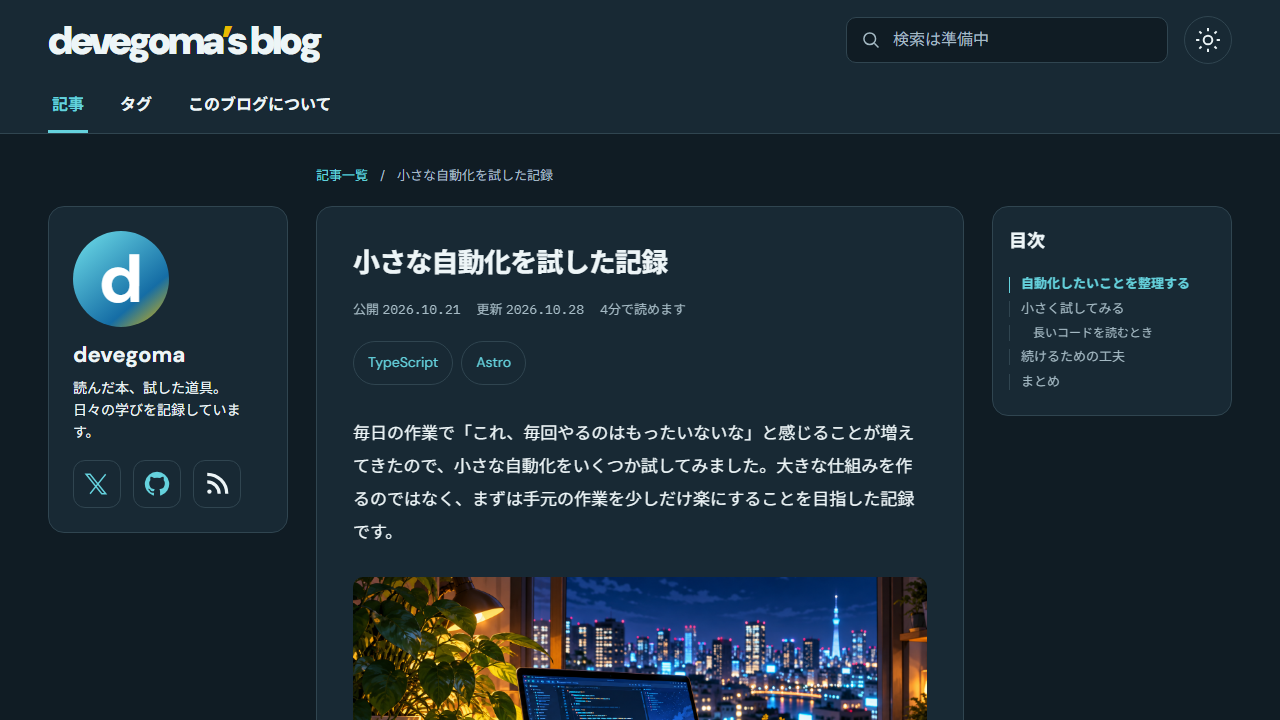
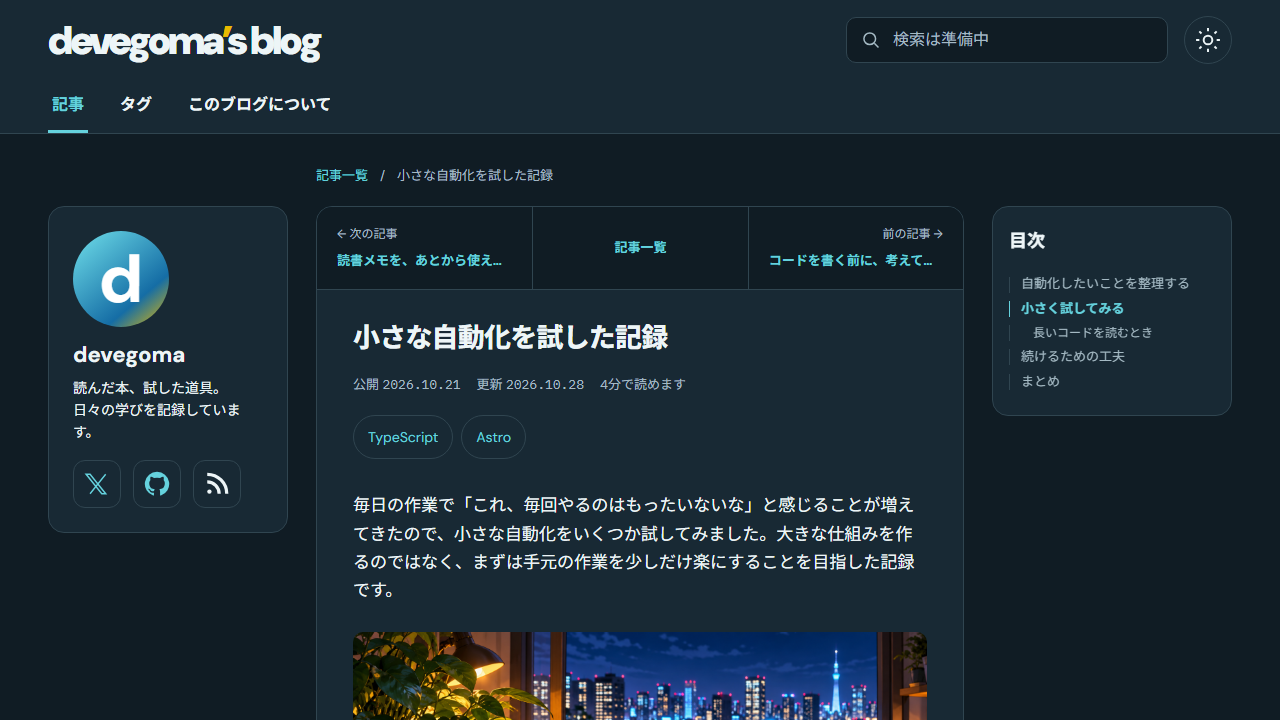
fix: refine article navigation and short-post table of contents

diff --git a/tests/article.spec.ts b/tests/article.spec.ts
@@ -1,5 +1,143 @@
 import { expect, test } from "@playwright/test";
 
+test("短い記事でもクリックした途中の目次を維持し、スクロールすると選択を更新する", async ({
+    page,
+    viewport,
+}) => {
+    await page.goto("/posts/before-coding/");
+    await page.evaluate(() => document.fonts.ready);
+    const mobile = viewport!.width <= 1199;
+    if (mobile) await page.locator(".mobile-toc summary").click();
+    const toc = page.locator(mobile ? ".mobile-toc .toc" : ".article-toc .toc");
+    const links = toc.locator("a");
+    const seenWhileScrolling = await page.evaluate(async () => {
+        const seen = new Set<string>();
+        const max = document.documentElement.scrollHeight - innerHeight;
+        for (let step = 0; step <= 30; step++) {
+            window.scrollTo(0, (max * step) / 30);
+            await new Promise(requestAnimationFrame);
+            await new Promise(requestAnimationFrame);
+            seen.add(
+                document
+                    .querySelector(".article-toc a[aria-current]")
+                    ?.textContent?.trim() ?? "",
+            );
+        }
+        return [...seen];
+    });
+    expect(seenWhileScrolling).toEqual(
+        expect.arrayContaining([
+            "目的を言葉にする",
+            "小さく試す",
+            "振り返りを残す",
+        ]),
+    );
+    await page.evaluate(() => window.scrollTo(0, 0));
+    await links.nth(1).click();
+    await expect(links.nth(1)).toHaveAttribute("aria-current", "location");
+    await links.last().click();
+    await expect(links.last()).toHaveAttribute("aria-current", "location");
+    await links.nth(1).click();
+    await links.nth(1).click();
+    await expect(links.nth(1)).toHaveAttribute("aria-current", "location");
+    await page.reload();
+    const desktopLinks = page.locator(".article-toc .toc a");
+    await expect(desktopLinks.nth(1)).toHaveAttribute(
+        "aria-current",
+        "location",
+    );
+    await page.goBack();
+    await expect(desktopLinks.last()).toHaveAttribute(
+        "aria-current",
+        "location",
+    );
+    await page.goForward();
+    await expect(desktopLinks.nth(1)).toHaveAttribute(
+        "aria-current",
+        "location",
+    );
+    await page.evaluate(() => window.scrollTo(0, 0));
+    await expect(desktopLinks.first()).toHaveAttribute(
+        "aria-current",
+        "location",
+    );
+    await page.evaluate(() =>
+        window.scrollTo(0, document.documentElement.scrollHeight),
+    );
+    await expect(desktopLinks.last()).toHaveAttribute(
+        "aria-current",
+        "location",
+    );
+
+    await page.setViewportSize({ ...page.viewportSize()!, height: 2000 });
+    await page.goto("/posts/before-coding/");
+    if (mobile) await page.locator(".mobile-toc summary").click();
+    await links.nth(1).click();
+    await expect(links.nth(1)).toHaveAttribute("aria-current", "location");
+    expect(await page.evaluate(() => window.scrollY)).toBe(0);
+});
+
+test("記事上部の前後ナビで移動でき、先頭・末尾に存在しない記事のリンクを出さない", async ({
+    page,
+    viewport,
+}) => {
+    await page.goto("/posts/automation/");
+    const navigation = page.getByRole("navigation", { name: "前後の記事" });
+    await expect(navigation.locator('[rel="prev"]')).toHaveAttribute(
+        "href",
+        "/posts/before-coding/",
+    );
+    await expect(navigation.locator('[rel="next"]')).toHaveAttribute(
+        "href",
+        "/posts/sample/",
+    );
+    await expect(
+        page.locator(".article-paper > .article-pagination"),
+    ).toBeVisible();
+    await expect(navigation.locator(":scope > *")).toHaveClass([
+        "article-next",
+        "article-index",
+        "article-previous",
+    ]);
+    const mobile = viewport!.width <= 1199;
+    const indexTab = navigation.getByRole("link", {
+        name: "記事一覧",
+        exact: true,
+    });
+    if (mobile) await expect(indexTab).toBeHidden();
+    else await expect(indexTab).toBeVisible();
+    const nextBox = (await navigation.locator(".article-next").boundingBox())!;
+    const previousBox = (await navigation
+        .locator(".article-previous")
+        .boundingBox())!;
+    expect(nextBox.width).toBeCloseTo(previousBox.width, 0);
+    if (!mobile)
+        expect((await indexTab.boundingBox())!.width).toBeCloseTo(
+            nextBox.width,
+            0,
+        );
+    await navigation.locator('[rel="prev"]').click();
+    await expect(page).toHaveURL("/posts/before-coding/");
+    await expect(navigation.locator('[rel="prev"]')).toHaveCount(0);
+    await expect(navigation.getByText("最後の記事です")).toBeVisible();
+    await navigation.locator('[rel="next"]').click();
+    await navigation.locator('[rel="next"]').click();
+    await expect(page).toHaveURL("/posts/sample/");
+    await expect(navigation.locator('[rel="next"]')).toHaveCount(0);
+    await expect(navigation.getByText("最新の記事です")).toBeVisible();
+    await expect(navigation.locator('[rel="prev"]')).toHaveAttribute(
+        "href",
+        "/posts/automation/",
+    );
+    if (mobile)
+        await page.getByRole("link", { name: "← 記事一覧に戻る" }).click();
+    else await indexTab.click();
+    await expect(page).toHaveURL("/");
+    await expect(
+        page.getByRole("heading", { name: "最近の記録" }),
+    ).toBeVisible();
+});
+
 test("最下部まで読むと最後の目次が選択され、上へ戻ると選択も戻る", async ({
     page,
 }) => {

diff --git a/src/styles/article.css b/src/styles/article.css
@@ -42,7 +42,62 @@
     min-width: 0;
 }
 .article-paper {
-    padding: 36px;
+    --article-padding: 36px;
+    padding: var(--article-padding);
+}
+.article-pagination {
+    display: grid;
+    grid-template-columns: repeat(3, minmax(0, 1fr));
+    margin: calc(-1 * var(--article-padding)) calc(-1 * var(--article-padding))
+        28px;
+    border-bottom: 1px solid var(--line);
+    border-radius: 15px 15px 0 0;
+    background: var(--page);
+    overflow: hidden;
+}
+.article-pagination > * {
+    display: flex;
+    flex-direction: column;
+    justify-content: center;
+    gap: 6px;
+    min-width: 0;
+    padding: 18px 20px;
+    font-size: 13px;
+    overflow-wrap: anywhere;
+}
+.article-pagination > * + * {
+    border-left: 1px solid var(--line);
+}
+.article-pagination .article-previous {
+    text-align: right;
+}
+.article-pagination .article-index {
+    align-items: center;
+    min-width: 92px;
+    padding-inline: 16px;
+    font-weight: 700;
+    white-space: nowrap;
+}
+.article-pagination a:hover {
+    background: color-mix(in srgb, var(--accent) 7%, var(--panel));
+    text-decoration: none;
+}
+.article-pagination a:focus-visible {
+    outline-offset: -4px;
+}
+.article-pagination-label {
+    color: var(--muted);
+    font-size: 12px;
+}
+.article-pagination-title {
+    font-weight: 700;
+    display: block;
+    white-space: nowrap;
+    text-overflow: ellipsis;
+    overflow: hidden;
+}
+.article-pagination-empty {
+    color: var(--muted);
 }
 .article-heading h1 {
     font-size: clamp(26px, 2.1vw, 34px);
@@ -128,7 +183,7 @@
 }
 .article-body {
     font-size: 17px;
-    line-height: 1.95;
+    line-height: 1.65;
     overflow-wrap: anywhere;
 }
 .article-body > :first-child {
@@ -389,7 +444,20 @@
         display: none;
     }
     .article-paper {
-        padding: 24px 20px;
+        --article-padding: 20px;
+        padding-block: 24px;
+    }
+    .article-pagination {
+        grid-template-columns: repeat(2, minmax(0, 1fr));
+        margin-top: -24px;
+        margin-bottom: 24px;
+    }
+    .article-pagination > * {
+        padding: 14px 12px;
+        font-size: 12px;
+    }
+    .article-pagination .article-index {
+        display: none;
     }
     .article-heading h1 {
         font-size: 26px;
@@ -462,6 +530,10 @@
         max-width: 800px;
     }
     .article-paper {
-        padding: 36px;
+        --article-padding: 36px;
+        padding-block: 36px;
+    }
+    .article-pagination {
+        margin-top: -36px;
     }
 }

diff --git a/output/issue-9-article-implementation/README.md b/output/issue-9-article-implementation/README.md
@@ -47,7 +47,7 @@
 
 1280×720pxの `/posts/automation/` で再現した。ページ最下部でも最後の「まとめ」は画面上端から約335pxの位置にあり、見出しの切り替え基準160pxに届かず、一つ前の目次が選択されたままだった。余白を一時的に400px追加すると最後の目次が選択され、余白を戻すと再発することから、見出しとリンクの不一致やスクロールイベントの欠落ではなく、スクロール可能な距離の不足と確認した。
 
-スクロールできるページの最下部では最後の見出しを選択する。上へ戻れば従来の見出し位置の判定に戻る。端数のスクロール位置は1pxの差を許容し、画面内に収まる短いページでは先頭の項目を維持する。画面サイズ変更時も再判定する。
+スクロールできるページの最下部では最後の見出しを選択する。上へ戻れば従来の見出し位置の判定に戻る。端数のスクロール位置は1pxの差を許容し、画面内に収まる短いページの初期表示（見出し指定なし）では先頭の項目を維持する。画面サイズ変更時も再判定する。
 
 回帰テストは、修正前に「まとめ」の `aria-current` が付かず失敗することを確認してから追加した。最下部・上端への往復、短い末尾、スクロール不要なページ、PC・モバイルの両目次を検証する。
 
@@ -64,3 +64,21 @@
 PR対象の整形確認は成功した。作業コピー全体の `pnpm format:check` は、上記の別作業ディレクトリにある未整形の6ファイルで失敗したため、それらを除外して確認している。別作業ファイルは変更していない。
 
 PR作成前の最終検証でLint・型チェック・単体テスト2件・公開ライフサイクル検証・本番ビルドが成功し、Chromium／Firefoxの全78テストが45.8秒で成功した。検証画像は最終スタイルで再生成した。
+
+## 記事カードと一体化した前後ナビ（2026-10-31）
+
+PCでは記事カードの上部を均等に3分割し、左に新しい「次の記事」、中央に「記事一覧」、右に古い「前の記事」を表示する。1199px以下は中央を非表示にし、左右を均等に2分割する。カードの背景と外枠を共有し、本文とは区切り線で分ける。公開日降順・固定名順の公開記事から移動先を選び、下書きは候補から除外する。最新記事の左側は「最新の記事です」、最古記事の右側は「最後の記事です」と表示する。記事末尾の一覧へのリンクは両画面で使用できる。
+
+Lint・型チェック・ビルドと、Chromium／Firefoxの3サイズで記事関連30テストが成功した（23.2秒）。左右の順序、最新・最古の案内、中央から一覧への移動も確認し、PC・モバイルの実装画像を更新した。
+
+## 短い記事で途中の目次を選択できない不具合の修正（2026-10-31）
+
+`/posts/before-coding/` の「小さく試す」をクリックするとURLは正しく変わる一方、移動が最下部に制限され、「振り返りを残す」が選択されていた。1280×720pxではスクロール上限451px、1920×1080pxでは46pxで再現した。通常のスクロールでも先頭と最後しか選択されず、途中の項目が飛ばされていた。
+
+クリック・URL指定・ブラウザー履歴で明示した見出しは、その移動先のスクロール位置にいる間は優先して選択する。実際にスクロール位置が変われば通常の判定へ戻す。同じ目次の再クリックや、スクロール不要な記事も扱う。
+
+通常の判定では、末尾の複数見出しが上端160pxまで届かない場合に、その切り替え位置を残りのスクロール範囲へ収める。手前の到達可能な見出しの判定位置は維持する。これにより、短い記事でも先頭・途中・末尾を順に選択でき、最下部で最後の見出しを選ぶ既存の動作も維持する。
+
+修正前に、クリックした途中見出しが選択されない回帰テストと、通常スクロールで途中見出しが飛ばされる回帰テストが失敗することを確認した。修正後は通常スクロール・同じ項目の再クリック・再読み込み・戻る／進む・短い記事の6構成の回帰テストが成功した。
+
+最終検証は記事関連36テストが26.2秒で成功。Lint・型チェック・ビルド・変更ファイルの整形確認も成功した。

diff --git a/docs/design/README.md b/docs/design/README.md
@@ -9,6 +9,7 @@
 - PCは左プロフィール・中央本文・右目次。プロフィールと目次は上端24pxで追従し、画面内に収まらない場合はその欄内でスクロールする。
 - 1199px以下は1列とし、本文前に折りたたみ目次、記事末尾にプロフィールを配置する。目次は標準のdetails要素で開閉する。
 - タイトル、公開日、任意の更新日、読了時間、複数タグの順に表示する。タグなし・更新日なしの記事も表示する。目次は本文のh2・h3から生成する。
+- 記事カードの上部に前後記事のナビゲーションを一体化する。PCは左に新しい「次の記事」、中央に「記事一覧」、右に古い「前の記事」を均等な3列で配置する。1199px以下は中央のタブを非表示にし、左右を均等な2列にする。本文と同じ外枠を使い、区切り線で分ける。公開記事の日付順を使い、最新記事の左側は「最新の記事です」、最古記事の右側は「最後の記事です」と表示し、リンクにしない。記事末尾の一覧への導線は維持する。
 - アイキャッチは任意。画像を置く場合は本文中で指定し、導入文の後を基本とする。画像のない記事も同じレイアウトを使う。
 - コード・表は領域内で横スクロールできる。引用・補足欄・通常リンク・リストに記事用のスタイルを適用する。
 
